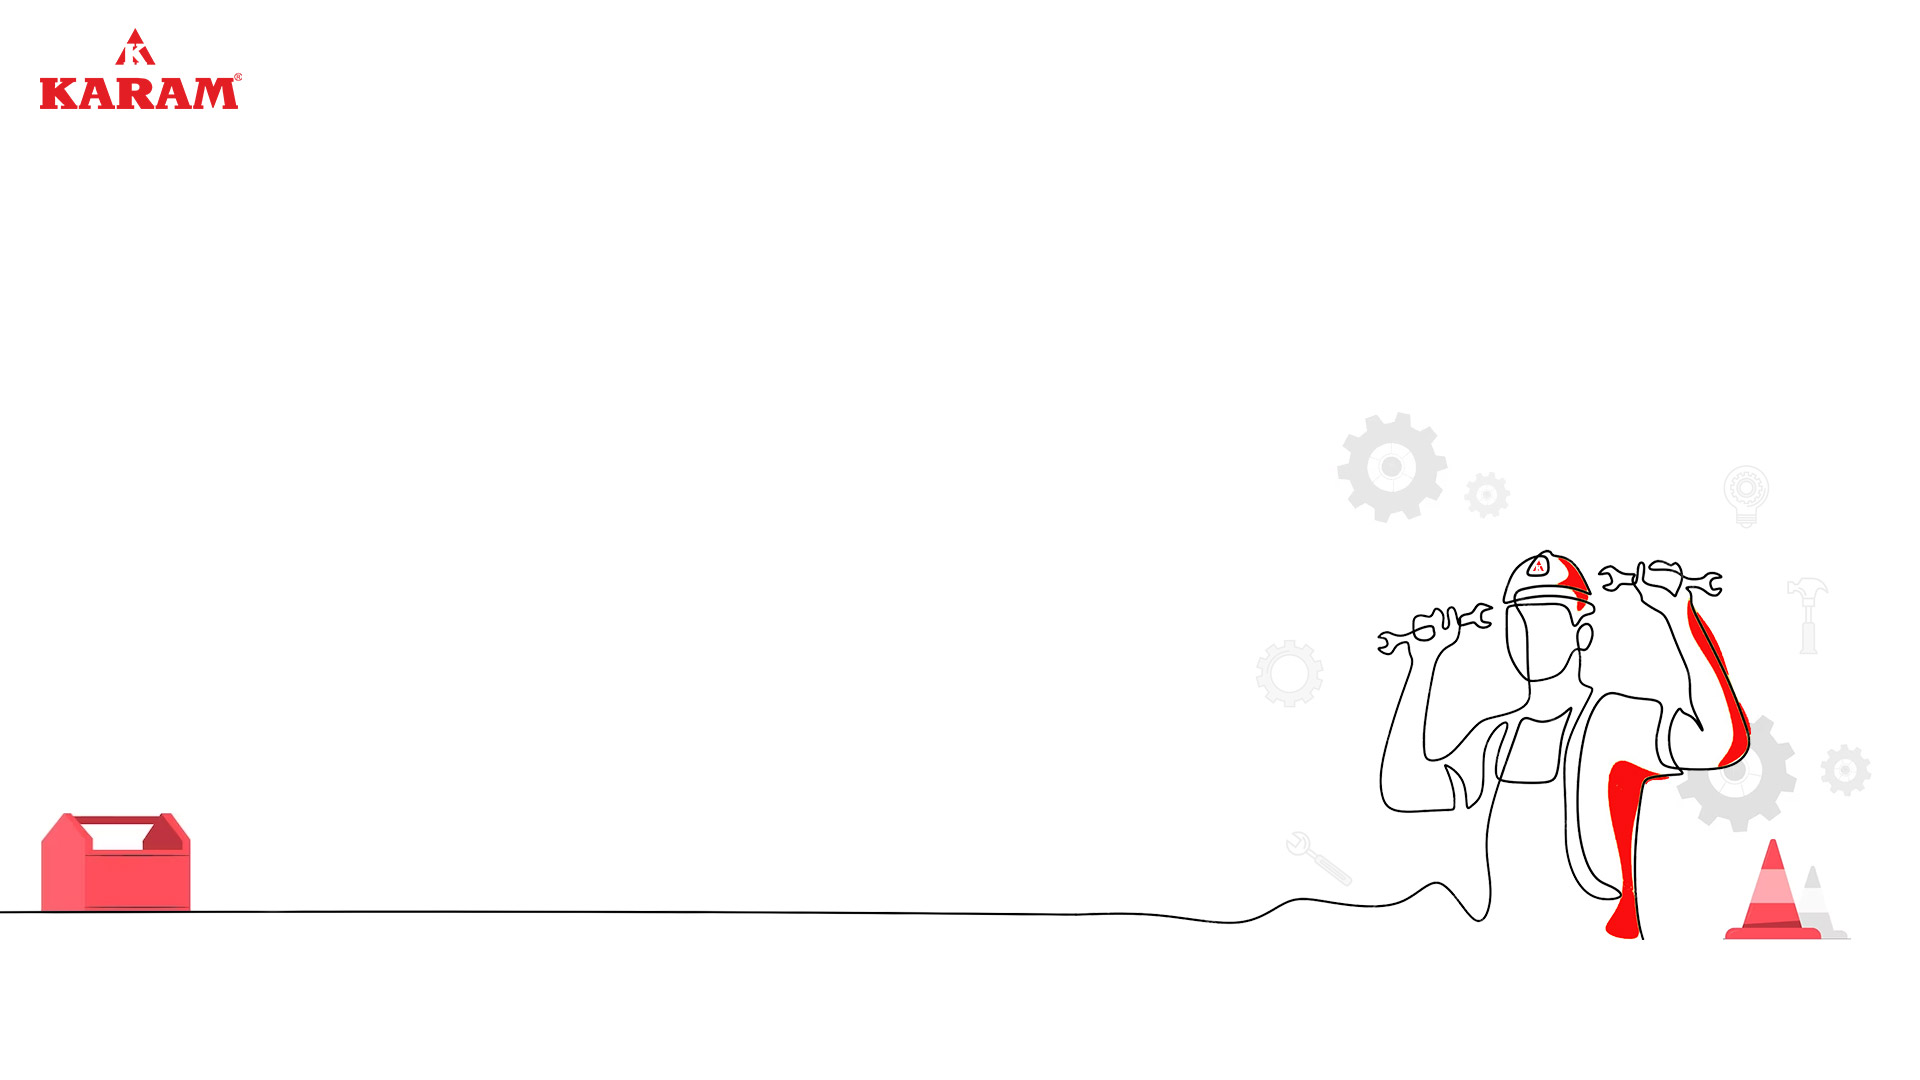
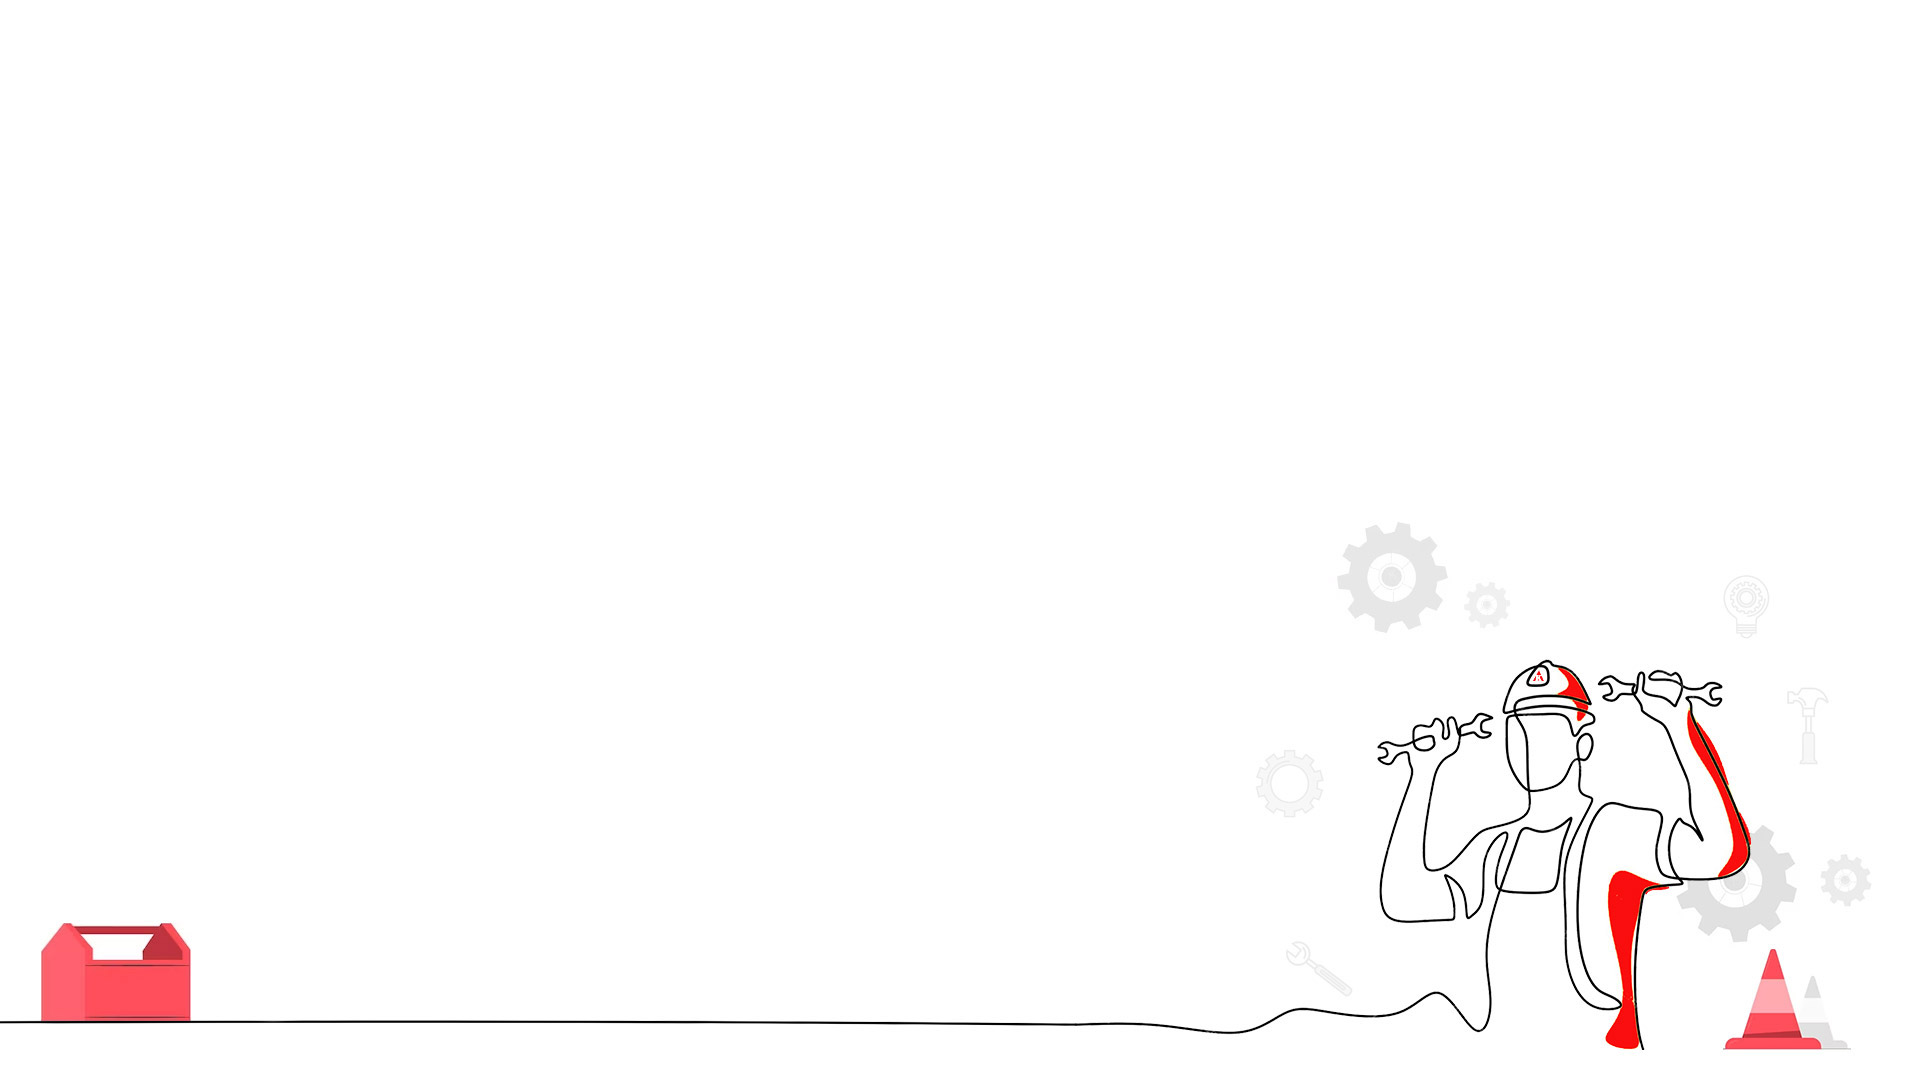
chnage images

diff --git a/public/css/custom.css b/public/css/custom.css
@@ -397,4 +397,6 @@ textarea.form-control{height: 110px;}
             -webkit-box-orient: vertical;}
 .error-msg-alert{text-align:center;}
 .dataTables_scrollHeadInner, div.dataTables_scrollHead table.table-bordered,.dataTables_scrollBody table{width:100%!important;}
-            
+.karam-logo{position: absolute;
+  top: 30px;
+  left: 30px;}

diff --git a/resources/views/auth/login.blade.php b/resources/views/auth/login.blade.php
@@ -13,7 +13,7 @@
   </head>
   <body class="hold-transition login-page">
 
-    
+  <div class="karam-logo"><img class="" src="{{ asset('img/logo.png') }}" alt="karam-logo"></div>
     <div class="login-logo">
                Sign In
             </div> 
